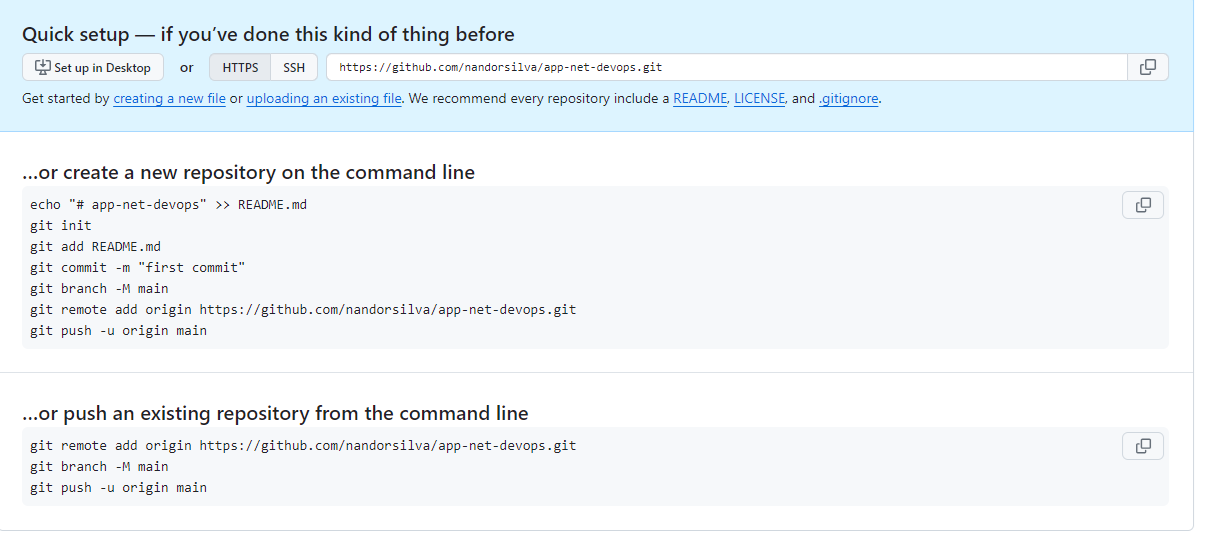
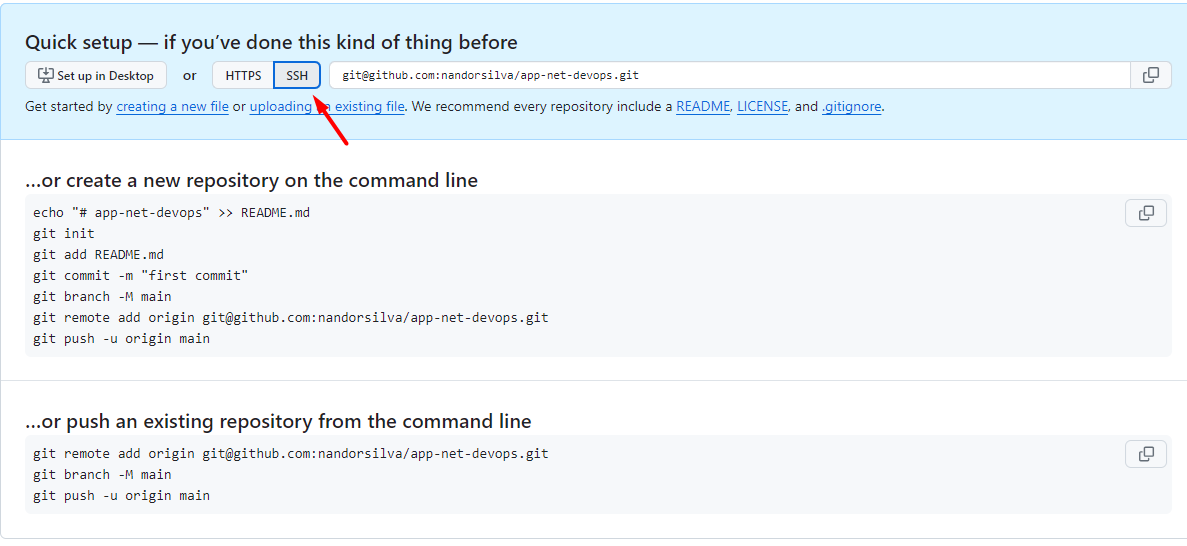
aula devops

diff --git a/lab-devops/README.md b/lab-devops/README.md
@@ -1,4 +1,4 @@
-# Lab Eda
+# Lab Devops
 
 
 ### Disclaimer
@@ -34,8 +34,6 @@ Ao criar esse repositório já vemos alguns comandos git que podemos utilizar.
 Primeiramente vamos verificar se temos o binário do git instalado na máquina.
 
 
-
-
 ```
 git --version
 
@@ -54,14 +52,14 @@ Criando o repositório local.
 
 ```
  git init
- git config --global user.email "seuemail@seudominio.com.br"
 
 ```
 
 Configurando email do repositório
 
 ```
- git config --global user.email "fernandos007@gmail.com"
+git config --global user.name "nandorsilva"
+git config --global user.email "fernandos007@gmail.com"
 
 ```
 
@@ -143,7 +141,7 @@ Na pagina inicial do repo
 ![Criando repositorio](../content/devops-08.png)
 
 ```
-git remote add origin https://github.com/nandorsilva/app-net-devops.git
+git remote add origin git@github.com:nandorsilva/app-net-devops.git
 ```
 
 Com este comando, adicionamos uma origem remota ao nosso repositório, permitindo que o git saiba para onde enviar o código ao executarmos um comando de push.
@@ -155,8 +153,6 @@ Com o comando origin, criamos uma referência chamada 'origin' com o endereço d
 
 ```
 git remote -v
-git branch -M main
-git push -u origin main
 
 ```
 
